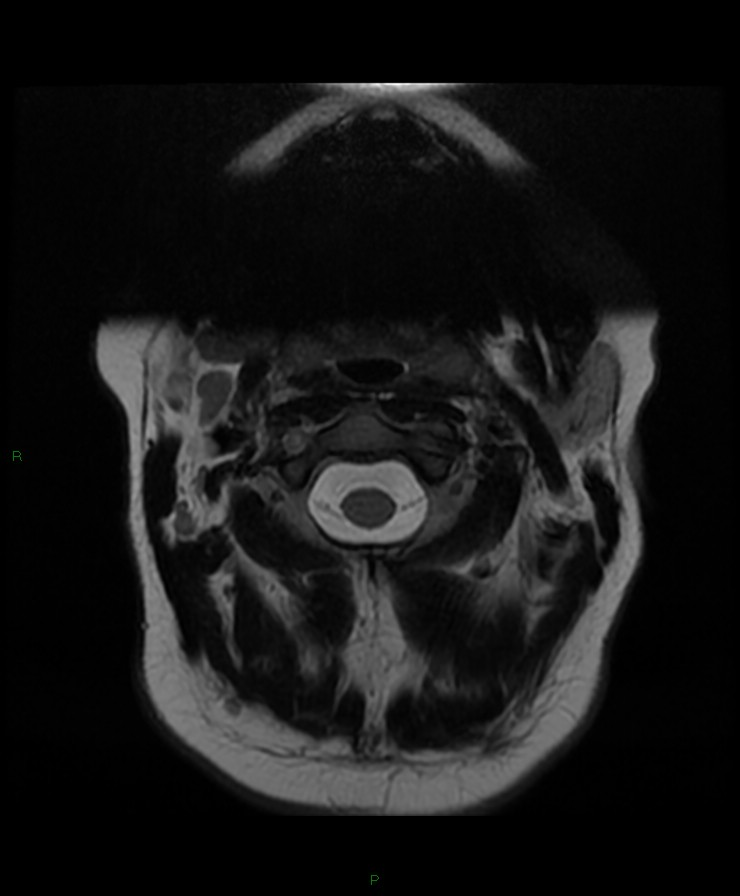
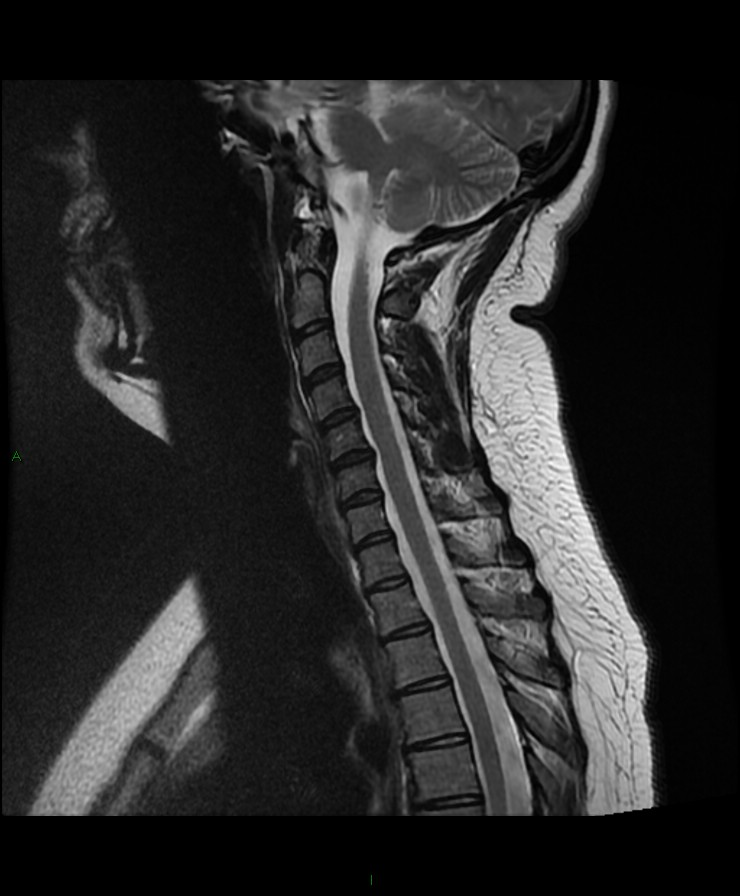
Restore resume face and reversible stage motion

diff --git a/portfolio-prod/components/ResumeExperience.tsx b/portfolio-prod/components/ResumeExperience.tsx
@@ -15,9 +15,11 @@ const VECTOR_DOCUMENT_SCALE = 0.195;
 const VECTOR_RENDER_SCALE = 4;
 const CINEMATIC_BREAKPOINT = "(min-width: 48rem)";
 const AUTHORED_EASE = [0.16, 1, 0.3, 1] as const;
+const RETURN_EASE = [0.55, 0, 0.45, 1] as const;
 const DETAIL_SPACE_FRACTION = 0.4;
 const STAGE_ONE_YAW = -Math.PI / 6;
-const STAGE_TWO_YAW = 0.78;
+const STAGE_TWO_YAW = 0.58;
+const STAGE_TWO_TARGET_X = 1.22;
 const STAGE_ONE_RIGHT_COMPENSATION = 0.34;
 const FRAGMENT_LIFT = 0.52;
 
@@ -108,10 +110,10 @@ const RESUME_EXCAVATIONS: ResumeExcavation[] = [
 ];
 
 const RESUME_FACE_TILES = [
-  { texture: "/resume/resume-tile-top-left.png", position: [-PLATE_WIDTH / 4, PLATE_HEIGHT / 4, PLATE_DEPTH / 2 + 0.001] as const },
-  { texture: "/resume/resume-tile-top-right.png", position: [PLATE_WIDTH / 4, PLATE_HEIGHT / 4, PLATE_DEPTH / 2 + 0.001] as const },
-  { texture: "/resume/resume-tile-bottom-left.png", position: [-PLATE_WIDTH / 4, -PLATE_HEIGHT / 4, PLATE_DEPTH / 2 + 0.001] as const },
-  { texture: "/resume/resume-tile-bottom-right.png", position: [PLATE_WIDTH / 4, -PLATE_HEIGHT / 4, PLATE_DEPTH / 2 + 0.001] as const },
+  { texture: "/resume/resume-tile-top-left.png", position: [-PLATE_WIDTH / 4, PLATE_HEIGHT / 4, PLATE_DEPTH / 2 + 0.014] as const },
+  { texture: "/resume/resume-tile-top-right.png", position: [PLATE_WIDTH / 4, PLATE_HEIGHT / 4, PLATE_DEPTH / 2 + 0.014] as const },
+  { texture: "/resume/resume-tile-bottom-left.png", position: [-PLATE_WIDTH / 4, -PLATE_HEIGHT / 4, PLATE_DEPTH / 2 + 0.014] as const },
+  { texture: "/resume/resume-tile-bottom-right.png", position: [PLATE_WIDTH / 4, -PLATE_HEIGHT / 4, PLATE_DEPTH / 2 + 0.014] as const },
 ];
 
 const RESUME_CUTOUT_FACE_TILES = RESUME_FACE_TILES.map((tile) => ({
@@ -293,9 +295,9 @@ function ExperienceFragment({
     }
 
     const controls = animate(lift, active ? 1 : 0, {
-      duration: active ? 2.25 : 0.42,
-      delay: active ? excavation.delay : 0,
-      ease: AUTHORED_EASE,
+      duration: active ? 2.25 : 0.9,
+      delay: active ? excavation.delay : (0.65 - excavation.delay) * 0.2,
+      ease: active ? AUTHORED_EASE : RETURN_EASE,
     });
 
     return () => controls.stop();
@@ -472,6 +474,7 @@ function ResumeSlab({
   const cinematicStageRef = useContext(CinematicStageContext);
   const shadowTexture = useMemo(() => createFloatingShadowTexture(), []);
   const perforatedGeometry = useMemo(() => createPerforatedSlabGeometry(), []);
+  const viewportTarget = useMemo(() => new THREE.Vector3(), []);
   const { viewport } = useThree();
   const scale = Math.min(1, (viewport.width - 0.28) / PLATE_WIDTH);
 
@@ -484,7 +487,7 @@ function ResumeSlab({
     perforatedGeometry.dispose();
   }, [perforatedGeometry, shadowTexture]);
 
-  useFrame((_, delta) => {
+  useFrame((state, delta) => {
     if (!sceneGroup.current || !orientationGroup.current || !rollGroup.current) return;
 
     const cinematic = cinematicStageRef.current;
@@ -492,11 +495,25 @@ function ResumeSlab({
     const stageProgress = cinematic.enabled ? THREE.MathUtils.clamp(authoredStage, 0, 1) : 0;
     const experienceProgress = cinematic.enabled ? THREE.MathUtils.clamp(authoredStage - 1, 0, 1) : 0;
     const easing = reducedMotion || cinematic.reducedMotion ? 50 : 18;
-    const sceneScale = scale * THREE.MathUtils.lerp(
-      THREE.MathUtils.lerp(1.1, 1.36, stageProgress),
-      1.29,
+    const cameraTargetX = THREE.MathUtils.lerp(
+      THREE.MathUtils.lerp(0, 0.62, stageProgress),
+      STAGE_TWO_TARGET_X,
       experienceProgress,
     );
+    const cameraTargetY = THREE.MathUtils.lerp(
+      THREE.MathUtils.lerp(1.62, 1.1, stageProgress),
+      0.5,
+      experienceProgress,
+    );
+    viewportTarget.set(cameraTargetX, cameraTargetY, 0);
+    const liveViewport = state.viewport.getCurrentViewport(state.camera, viewportTarget);
+    const preExperienceScale = scale * THREE.MathUtils.lerp(1.1, 1.36, stageProgress);
+    const experienceFitScale = THREE.MathUtils.clamp(
+      (liveViewport.width * 0.7) / (PLATE_WIDTH * Math.cos(STAGE_TWO_YAW)),
+      0.82,
+      1.5,
+    );
+    const sceneScale = THREE.MathUtils.lerp(preExperienceScale, experienceFitScale, experienceProgress);
     const baseRotation = cinematic.enabled
       ? {
           x: THREE.MathUtils.lerp(THREE.MathUtils.lerp(-0.018, -0.09, stageProgress), -0.13, experienceProgress),
@@ -506,14 +523,13 @@ function ResumeSlab({
         }
       : { x: -0.12, y: -0.32, z: 0 };
 
-    const cameraTargetX = THREE.MathUtils.lerp(THREE.MathUtils.lerp(0, 0.62, stageProgress), 1.34, experienceProgress);
     const plateHalfWidth = (PLATE_WIDTH * sceneScale) / 2;
     const skillsSceneX = cameraTargetX
       + plateHalfWidth
       - viewport.width * (0.5 - DETAIL_SPACE_FRACTION)
       + THREE.MathUtils.lerp(0, STAGE_ONE_RIGHT_COMPENSATION, stageProgress);
     const experienceProjectedWidth = PLATE_WIDTH * sceneScale * Math.cos(STAGE_TWO_YAW);
-    const experienceSceneX = cameraTargetX - viewport.width * 0.46 + experienceProjectedWidth / 2;
+    const experienceSceneX = cameraTargetX - liveViewport.width * 0.41 + experienceProjectedWidth / 2;
     const reservedSceneX = THREE.MathUtils.lerp(skillsSceneX, experienceSceneX, experienceProgress);
 
     sceneGroup.current.position.x = THREE.MathUtils.damp(
@@ -573,17 +589,25 @@ function ResumeSlab({
           <ResumeFace />
           <ExperienceFragments active={experienceActive} reducedMotion={reducedMotion} />
 
-          {!experienceActive ? (
-            <Html
-              transform
-              center
-              distanceFactor={10}
-              position={[0, 0, PLATE_DEPTH / 2 + 0.003]}
-              scale={VECTOR_DOCUMENT_SCALE / VECTOR_RENDER_SCALE}
-              className="resume-vector-face"
-              pointerEvents="none"
+          <Html
+            transform
+            center
+            distanceFactor={10}
+            position={[0, 0, PLATE_DEPTH / 2 + 0.018]}
+            scale={VECTOR_DOCUMENT_SCALE / VECTOR_RENDER_SCALE}
+            className="resume-vector-face"
+            pointerEvents="none"
+          >
+            <motion.div
+              className="resume-vector-frame"
+              initial={false}
+              animate={{ opacity: experienceActive ? 0 : 1 }}
+              transition={{
+                duration: reducedMotion ? 0 : experienceActive ? 0.2 : 0.28,
+                delay: reducedMotion || experienceActive ? 0 : 0.78,
+                ease: experienceActive ? AUTHORED_EASE : RETURN_EASE,
+              }}
             >
-              <div className="resume-vector-frame">
                 <object
                   className="resume-vector-document"
                   data="/resume/kuan-yi-wang-resume.svg"
@@ -591,9 +615,8 @@ function ResumeSlab({
                   aria-label="Kuan Yi Wang resume"
                 />
                 <ResumeHighlights active={skillsActive} reducedMotion={reducedMotion} />
-              </div>
-            </Html>
-          ) : null}
+            </motion.div>
+          </Html>
         </group>
       </group>
     </group>
@@ -619,12 +642,12 @@ function CinematicCamera({ reducedMotion }: { reducedMotion: boolean }) {
       ? {
           x: THREE.MathUtils.lerp(THREE.MathUtils.lerp(0, -0.9, stageProgress), 1.58, experienceProgress),
           y: THREE.MathUtils.lerp(THREE.MathUtils.lerp(1.62, 1.1, stageProgress), 0.5, experienceProgress),
-          z: THREE.MathUtils.lerp(THREE.MathUtils.lerp(3.15, 3.85, stageProgress), 4.28, experienceProgress),
+          z: THREE.MathUtils.lerp(THREE.MathUtils.lerp(3.15, 3.85, stageProgress), 4.55, experienceProgress),
         }
       : { x: 0, y: 0.1, z: 8.25 };
     const cameraTarget = cinematic.enabled
       ? {
-          x: THREE.MathUtils.lerp(THREE.MathUtils.lerp(0, 0.62, stageProgress), 1.22, experienceProgress),
+          x: THREE.MathUtils.lerp(THREE.MathUtils.lerp(0, 0.62, stageProgress), STAGE_TWO_TARGET_X, experienceProgress),
           y: THREE.MathUtils.lerp(THREE.MathUtils.lerp(1.62, 1.1, stageProgress), 0.5, experienceProgress),
           z: 0,
         }
@@ -810,18 +833,18 @@ function DitherBackdrop() {
         className="dither-backdrop-shader"
         image="/resume/spinal-mri-background.jpg"
         colorBack="#d9d1c5"
-        colorFront="#393733"
-        colorHighlight="#887f72"
+        colorFront="#242321"
+        colorHighlight="#756d61"
         originalColors={false}
         type="8x8"
-        size={1.3}
-        colorSteps={3}
+        size={0.72}
+        colorSteps={4}
         fit="cover"
-        offsetX={-0.22}
-        offsetY={0.04}
+        offsetX={0.04}
+        offsetY={-0.03}
         speed={0}
         minPixelRatio={1}
-        maxPixelCount={460000}
+        maxPixelCount={1100000}
       />
       <div className="dither-backdrop-veil" />
     </div>
@@ -1003,7 +1026,7 @@ export function ResumeExperience() {
           <DitherBackdrop />
           <a
             className="dither-credit"
-            href="https://nccommons.org/wiki/File:Normal_cervical_spine_MRI_%28Radiopaedia_80146-93454_Axial_T2_2%29.jpg"
+            href="https://nccommons.org/wiki/File:Normal_cervical_spine_MRI_%28Radiopaedia_80146-93454_Sagittal_T2_8%29.jpg"
             target="_blank"
             rel="noreferrer"
           >

diff --git a/portfolio-prod/app/globals.css b/portfolio-prod/app/globals.css
@@ -114,11 +114,11 @@ body {
 
 .dither-backdrop {
   position: absolute;
-  inset: -18%;
+  inset: -3%;
   z-index: 0;
   overflow: hidden;
   pointer-events: none;
-  transform: scale(1.18);
+  transform: scale(1.06);
 }
 
 .dither-backdrop-shader,
@@ -131,14 +131,14 @@ body {
 .dither-backdrop-shader {
   position: absolute !important;
   inset: 0;
-  filter: contrast(0.94);
-  opacity: 0.48;
+  filter: contrast(1.12);
+  opacity: 0.76;
 }
 
 .dither-backdrop-veil {
   position: absolute;
   inset: 0;
-  background: rgb(216 208 195 / 34%);
+  background: rgb(216 208 195 / 12%);
 }
 
 .dither-credit {
